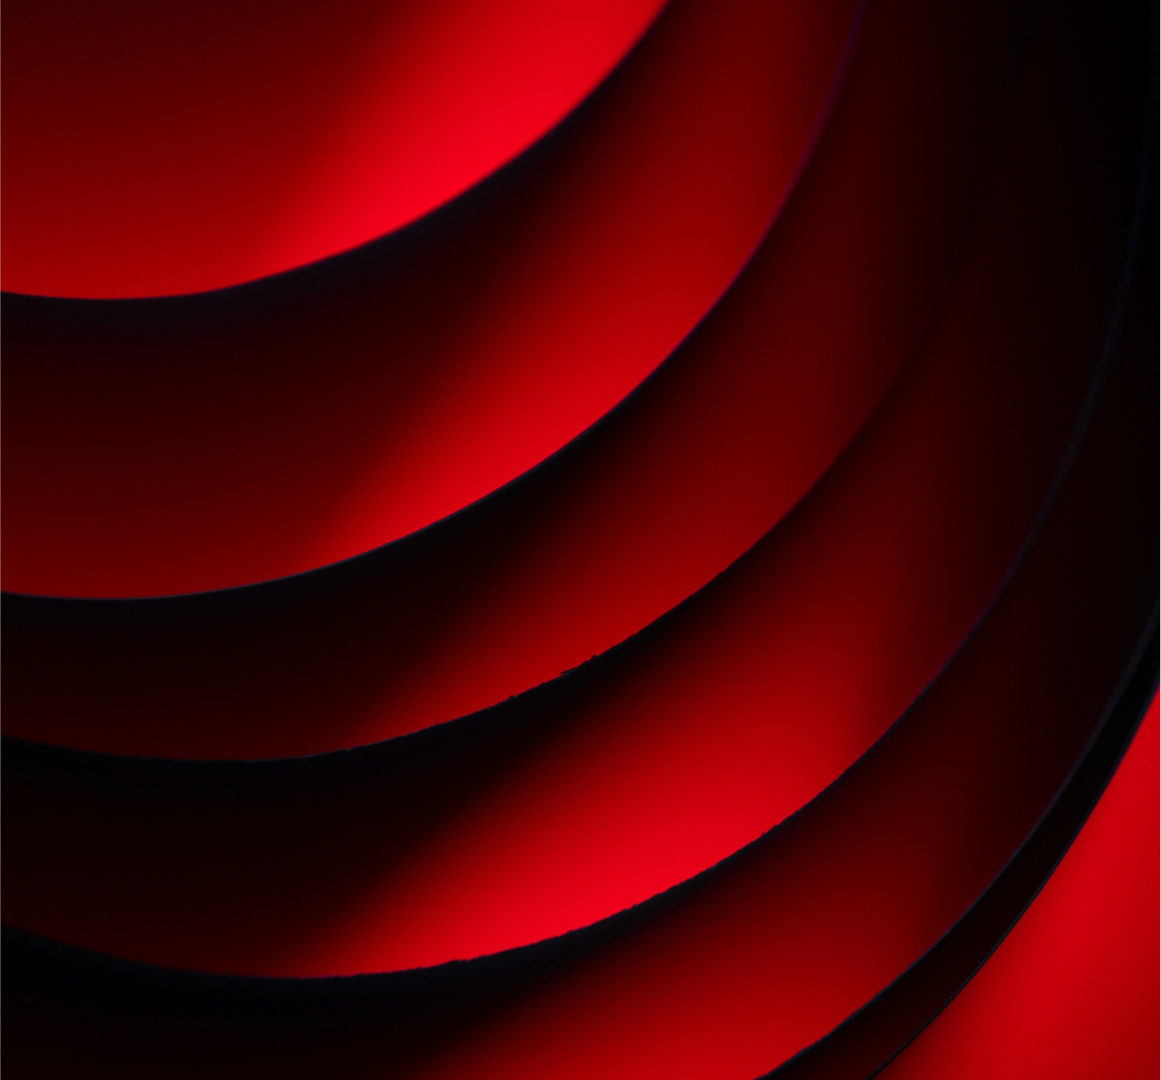
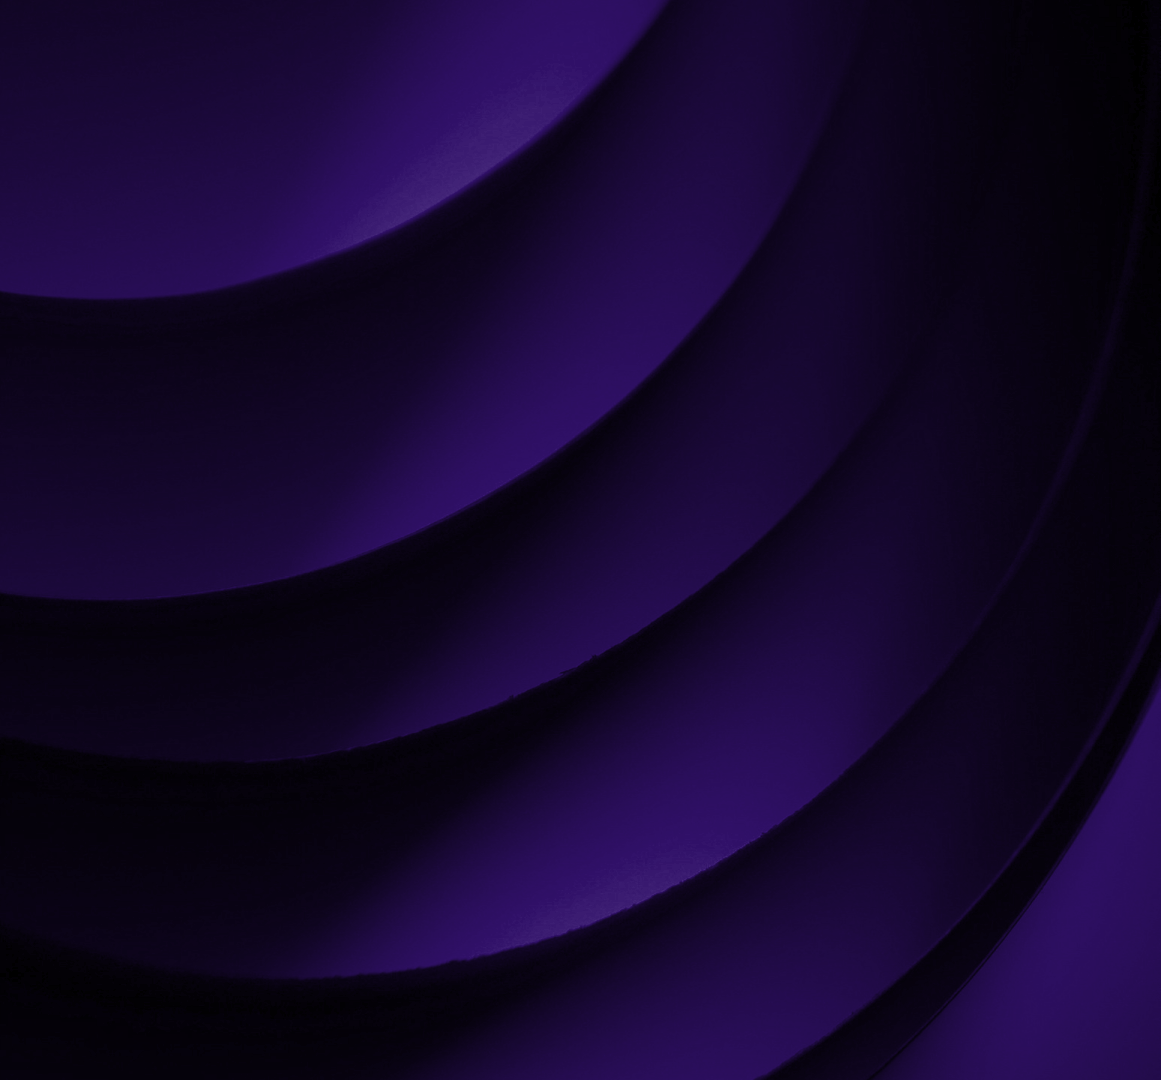
WIP: temporary UI changes

diff --git a/web/src/plugins/vuetify/index.js b/web/src/plugins/vuetify/index.js
@@ -3,7 +3,7 @@ import { createVuetify } from 'vuetify'
 import { VBtn } from 'vuetify/components/VBtn'
 import defaults from './defaults'
 import { icons } from './icons'
-import { staticPrimaryColor, staticPrimaryDarkenColor, themes } from './theme'
+import { darkPrimaryColor, darkPrimaryDarkenColor, staticPrimaryColor, staticPrimaryDarkenColor, themes } from './theme'
 import { themeConfig } from '@themeConfig'
 
 // Styles
@@ -23,8 +23,11 @@ export default function (app) {
       },
       dark: {
         colors: {
-          'primary': cookieRef('darkThemePrimaryColor', staticPrimaryColor).value,
-          'primary-darken-1': cookieRef('darkThemePrimaryDarkenColor', staticPrimaryDarkenColor).value,
+          // ❗ Must default to the dark-theme brand tints, not the light ones —
+          // this merge is applied last and would otherwise override theme.js and
+          // paint the unreadable dark purple on dark surfaces.
+          'primary': cookieRef('darkThemePrimaryColor', darkPrimaryColor).value,
+          'primary-darken-1': cookieRef('darkThemePrimaryDarkenColor', darkPrimaryDarkenColor).value,
         },
       },
     },

diff --git a/web/src/pages/checkpoint.vue b/web/src/pages/checkpoint.vue
@@ -179,7 +179,7 @@ const verifyOtp = async () => {
                 QuantumLogic - Web, software & cloud solutions
               </h3>
               <h5 class="mb-0 text-white text-h5">
-                Safeguard your websites against cyber threats, malicious traffic, and attacks with real-time, intelligent threat detection and automated protection - all from a single, powerful platform.
+                Your projects, services and support in one place. Follow the work we are doing for you, raise a ticket whenever you need us, and keep track of your invoices - all from a single dashboard.
               </h5>
               <!-- Add app store image icons -->
               <div class="d-flex mt-6">

diff --git a/web/src/pages/add-user-email.vue b/web/src/pages/add-user-email.vue
@@ -196,7 +196,7 @@ const onSubmit = () => {
               QuantumLogic - Web, software & cloud solutions
             </h3>
             <h5 class="mb-0 text-white text-h5">
-              Safeguard your websites against cyber threats, malicious traffic, and attacks with real-time, intelligent threat detection and automated protection - all from a single, powerful platform.
+              Your projects, services and support in one place. Follow the work we are doing for you, raise a ticket whenever you need us, and keep track of your invoices - all from a single dashboard.
             </h5>
 
             <!-- Add app store image icons -->

diff --git a/web/src/pages/client/register-success.vue b/web/src/pages/client/register-success.vue
@@ -144,7 +144,7 @@ const onSubmit = () => {
               QuantumLogic - Web, software & cloud solutions
             </h3>
             <h5 class="mb-0 text-white text-h5">
-              Safeguard your websites against cyber threats, malicious traffic, and attacks with real-time, intelligent threat detection and automated protection - all from a single, powerful platform.
+              Your projects, services and support in one place. Follow the work we are doing for you, raise a ticket whenever you need us, and keep track of your invoices - all from a single dashboard.
             </h5>
 
             <!-- Add app store image icons -->

diff --git a/web/src/pages/login.vue b/web/src/pages/login.vue
@@ -273,7 +273,7 @@ const onSubmit = () => {
               QuantumLogic - Web, software & cloud solutions
             </h3>
             <h5 class="mb-0 text-white text-h5">
-              Safeguard your websites against cyber threats, malicious traffic, and attacks with real-time, intelligent threat detection and automated protection - all from a single, powerful platform.
+              Your projects, services and support in one place. Follow the work we are doing for you, raise a ticket whenever you need us, and keep track of your invoices - all from a single dashboard.
             </h5>
 
             <!-- Add app store image icons -->

diff --git a/web/src/pages/register-success.vue b/web/src/pages/register-success.vue
@@ -144,7 +144,7 @@ const onSubmit = () => {
               QuantumLogic - Web, software & cloud solutions
             </h3>
             <h5 class="mb-0 text-white text-h5">
-              Safeguard your websites against cyber threats, malicious traffic, and attacks with real-time, intelligent threat detection and automated protection - all from a single, powerful platform.
+              Your projects, services and support in one place. Follow the work we are doing for you, raise a ticket whenever you need us, and keep track of your invoices - all from a single dashboard.
             </h5>
 
             <!-- Add app store image icons -->

diff --git a/web/src/pages/register.vue b/web/src/pages/register.vue
@@ -326,7 +326,7 @@ const onSubmit = () => {
               QuantumLogic - Web, software & cloud solutions
             </h3>
             <h5 class="mb-0 text-white text-h5">
-              Safeguard your websites against cyber threats, malicious traffic, and attacks with real-time, intelligent threat detection and automated protection - all from a single, powerful platform.
+              Your projects, services and support in one place. Follow the work we are doing for you, raise a ticket whenever you need us, and keep track of your invoices - all from a single dashboard.
             </h5>
 
             <!-- Add app store image icons -->

diff --git a/web/src/pages/reset/forgot-password.vue b/web/src/pages/reset/forgot-password.vue
@@ -206,7 +206,7 @@ const onSubmit = () => {
               QuantumLogic - Web, software & cloud solutions
             </h3>
             <h5 class="mb-0 text-white text-h5">
-              Safeguard your websites against cyber threats, malicious traffic, and attacks with real-time, intelligent threat detection and automated protection - all from a single, powerful platform.
+              Your projects, services and support in one place. Follow the work we are doing for you, raise a ticket whenever you need us, and keep track of your invoices - all from a single dashboard.
             </h5>
 
             <!-- Add app store image icons -->

diff --git a/web/src/pages/reset/password/[token].vue b/web/src/pages/reset/password/[token].vue
@@ -212,7 +212,7 @@ const onSubmit = () => {
               QuantumLogic - Web, software & cloud solutions
             </h3>
             <h5 class="mb-0 text-white text-h5">
-              Safeguard your websites against cyber threats, malicious traffic, and attacks with real-time, intelligent threat detection and automated protection - all from a single, powerful platform.
+              Your projects, services and support in one place. Follow the work we are doing for you, raise a ticket whenever you need us, and keep track of your invoices - all from a single dashboard.
             </h5>
 
             <!-- Add app store image icons -->

diff --git a/web/src/pages/reset/verify-email.vue b/web/src/pages/reset/verify-email.vue
@@ -205,7 +205,7 @@ const onSubmit = () => {
               QuantumLogic - Web, software & cloud solutions
             </h3>
             <h5 class="mb-0 text-white text-h5">
-              Safeguard your websites against cyber threats, malicious traffic, and attacks with real-time, intelligent threat detection and automated protection - all from a single, powerful platform.
+              Your projects, services and support in one place. Follow the work we are doing for you, raise a ticket whenever you need us, and keep track of your invoices - all from a single dashboard.
             </h5>
 
             <!-- Add app store image icons -->

diff --git a/web/src/assets/styles/styles.scss b/web/src/assets/styles/styles.scss
@@ -1,1 +1,10 @@
 // Write your overrides
+
+// The auth pages render a white support line over the dark brand hero image, but the
+// mail link inside it falls back to Vuetify's link colour (theme primary, #301068),
+// which is unreadable against that purple artwork. Inherit the parent's white instead.
+// Rule lives here rather than in @core/scss/template/pages/page-auth.scss so the
+// Vuexy template internals stay untouched.
+.support-text a {
+  color: inherit;
+}
